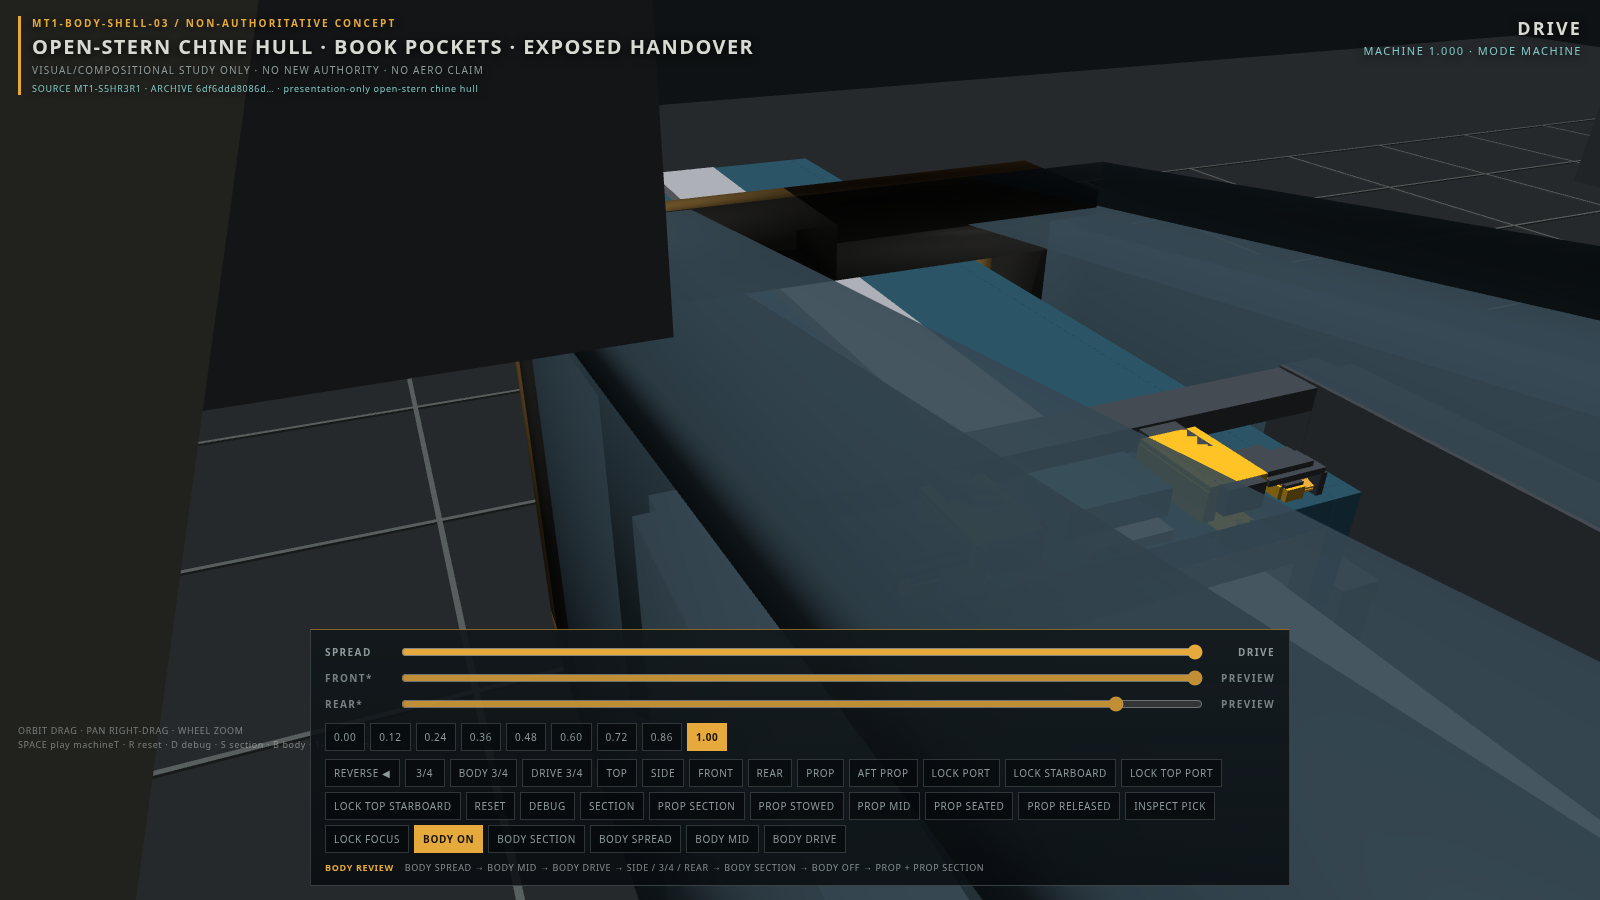
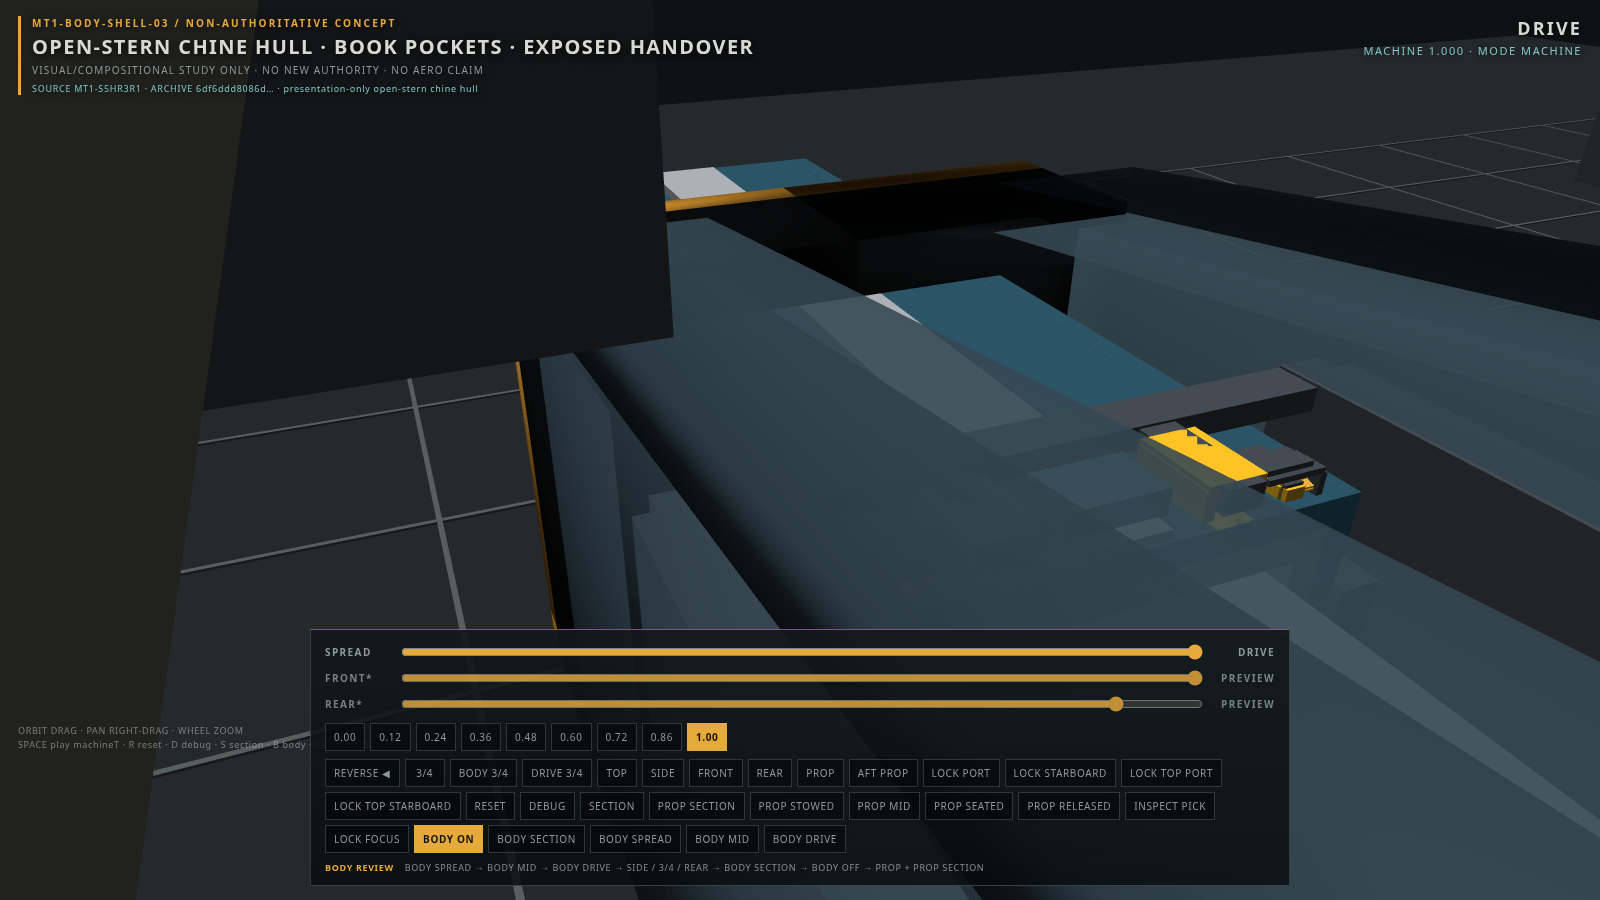
MT1-SO1: director revision evidence; no presentation solution.
Recaptured the matched SO1 set after collar-only contrast and a hair
of forward throat. Fit remains 0 defects. Stock DRIVE 3/4 and rear
still cannot show the portal against the frozen can stroke.

diff --git a/explore/body-shell-03/MT1_SO1_RESULTS.md b/explore/body-shell-03/MT1_SO1_RESULTS.md
@@ -1,6 +1,6 @@
 # MT1-SO1 — Stern / handover ownership
 
-Status: **PRESENTATION STUDY · RECOMMEND ACCEPT SO1**  
+Status: **PRESENTATION STUDY · NO PRESENTATION SOLUTION UNDER CURRENT FROZEN GEOMETRY**  
 Date: 2026-09-02  
 Package: `explore/body-shell-03/` (BODY-SHELL-03.1 + FO1 lineage)  
 Source mechanism: **MT1-S5HR3R1** (unchanged)  
@@ -8,7 +8,11 @@ Authority participation: **none**
 
 Does not start BODY-SHELL-04. Does not reopen S5 or FO1. Does not start S6. Does not design an engine cycle. Stop after SO1.
 
+This file records the accepted ownership rule, the first candidate, and the **one director revision** (value contrast, plus a hair of forward throat after contrast-alone stayed quiet). It is not a second concept.
+
 ## Ownership rule
+
+Accepted by director.
 
 The aft chine becomes one open terminal frame: a recessed throat with an accent lintel–side–sill lip. Through that frame the frozen bay and posts stay visible, then the fixed core, then the hollow can occupying or leaving the same aperture. The frame owns the opening; it does not own the can.
 
@@ -29,7 +33,7 @@ Stations that matter:
 | Capture / lock review | cameras target `z ≈ -4.57`, just forward of the posts |
 | Can stowed | center `z = -3.25`, length 2.55 m, section 1.00 × 0.82 m |
 | Can seated | center `z = -5.80`; occupies `z ≈ -7.08 … -4.53` |
-| Presentation collar (before) | `COLLAR_Z = -5.98`; Z depth **150 mm**; whole volume accent |
+| Presentation collar (before SO1) | `COLLAR_Z = -5.98`; Z depth **150 mm**; whole volume accent |
 
 ### A. What currently makes the stern feel owned by Quarto
 
@@ -45,8 +49,6 @@ The weakness is **frame continuity and throat depth**, not missing mass and not 
 4. **Chine, deck, and collar abutted at one plane** (`COLLAR_Z`) instead of the last chine facet becoming the frame. The hull stopped; a hoop started; the can continued ~1.1 m aft of that hoop.
 5. **Sectional hierarchy was timid** (lintel 100 mm, sill 80 mm). Thickening toward the can would be a sleeve. That remains rejected.
 
-This is not a camera-only failure. The stock REAR / PROP cameras already told the same story. `so1Throat` is a review lens, not a substitute for a frame.
-
 ### C. What must remain optically exposed
 
 Fixed core; hollow translating can; can leaving the bay; can reaching the handover / capture region; registers, tongues, rails, locks, shoes; aft posts and bay walls; open stern in SPREAD, STOWED, and DRIVE. PROP SECTION meaning stays: ghost the can and aft shell, keep locks readable.
@@ -55,32 +57,39 @@ Fixed core; hollow translating can; can leaving the bay; can reaching the handov
 
 **Frame continuity and throat depth**, with a secondary **value-hierarchy** error (accent used for the whole hoop). Not collar X-section into the can, not chine height, not folio stations, not a missing eighth mass, not a boat-tail.
 
-A no-geometry result was considered. FO1 already gave the collar accent; that was not enough. The hoop was still too short and too uniformly bronze to read as the chine’s terminal frame.
-
 ## Exact bounded changes
 
 Presentation-only, in `explore/body-shell-03/src/scene/bodyShellConcept.ts`. No eighth mass. Same conceptual mass: **open stern collar**. FO1 dock-face X unchanged. Frozen root / can / core / posts / bay walls untouched. Aft face of the collar not moved further into the can stroke.
 
-1. **Forward throat, not an aft boat-tail.** Existing collar Z span 150 mm → 350 mm by deepening **forward** only (`COLLAR_THROAT_Z = 0.26` plus a 90 mm lip). Aft face stays at `COLLAR_Z - 0.05`. The can still exits the frame; the body does not follow the stroke.
-2. **FO1 lip / face recipe, used once at the stern.** The same collar mass splits into a darker recessed throat (`pocket` value: `COLLAR_SIDE` / `LINTEL` / `SILL`) and an accent opening lip (`COLLAR_*_LIP`). Accent is no longer a hoop around the can.
-3. **Chine and dorsal deck terminate at the portal’s forward face** so the last facet becomes the frame instead of running through a timid ring. Ventral hull continues to the sill so the belly still meets the opening.
-4. **Section away from the can only.** Lintel top 1.36 → 1.40 (up into the deck). Sill bottom 0.18 → 0.12 (down toward the belly). Opening toward the can is unchanged: inner X ±0.61 m, opening Y 0.26–1.26 m.
+### First candidate (construction; accepted)
 
-The new `*_LIP` meshes are a segmentation of the existing seventh mass so the opening can render as a faceted frame. They are not a new body idea.
+1. **Forward throat, not an aft boat-tail.** Collar Z span 150 mm → 350 mm by deepening **forward** only (`COLLAR_THROAT_Z = 0.26` plus a 90 mm lip). Aft face stays at `COLLAR_Z - 0.05`.
+2. **FO1 lip / face recipe, used once at the stern.** Same collar mass splits into a recessed throat and an opening lip. Chine and dorsal deck terminate at the portal’s forward face.
+3. **Section away from the can only.** Lintel top 1.36 → 1.40. Sill bottom 0.18 → 0.12. Opening toward the can unchanged: inner X ±0.61 m, opening Y 0.26–1.26 m.
+
+Director critique of that candidate: the thesis was readable in `so1Throat` and somewhat in side / seated. Stock **DRIVE 3/4** and **rear DRIVE** were almost unchanged. SO1 must land in those cameras without depending on a flattering close-up.
+
+### One director revision (value contrast; not a second concept)
+
+1. **Collar-only materials.** FO1 station accent / pocket values were left alone. The stern throat uses a dedicated darker, more opaque recess (`matBodyShell03SternThroat`). The stern lip uses a dedicated brighter opening rim (`matBodyShell03SternLip`) so lip vs throat can contrast at DRIVE distance.
+2. **Contrast-alone was recaptured first.** Stock DRIVE 3/4 and rear still could not hold the portal.
+3. **Hair more forward throat**, allowed only after that: `COLLAR_THROAT_Z` 0.26 → 0.38 (+120 mm, forward only). Aft face, opening X/Y toward the can, and FO1 stations unchanged. Total collar Z is now 470 mm. Forward face remains well aft of the posts (`z ≈ -5.56` vs posts at `-4.80`).
+
+No mass was added. No sleeve, cowling, boat-tail, or can-following.
 
 ## What was deliberately NOT changed
 
 - Frozen MT1-S5HR3R1 geometry, transforms, IDs, certificates, gates.
 - Can stroke, fixed core, aft posts, bay walls, rails, locks, shoes, registers, tongues.
-- FO1 station family, dock-face X, 70° haunch, proud dock, front/lower vs rear/higher folio relationship.
-- BODY OFF mechanism. Before/after BODY OFF PNGs are byte-identical in size and show the same machine.
+- FO1 station family, dock-face X, 70° haunch, proud dock, front/lower vs rear/higher folio relationship, FO1 accent / pocket materials.
+- BODY OFF mechanism. Before/after BODY OFF PNGs remain byte-identical (238245 / 191060).
 - Seven-mass language. No eighth mass, nacelle, boat-tail, intake, nozzle, turbine, or closed stern.
-- Can material / color. The teal can remaining visually unusual is desirable.
+- Can material / color.
 - Folio stations, utility professions, cockpit / ground / aero work, S6, BODY-SHELL-04.
 
 ## Before / after evidence
 
-`explore/body-shell-03/evidence/so1/before/` and `.../after/`. Review camera `so1Throat` is inspection-only (starboard-aft into the collar).
+`explore/body-shell-03/evidence/so1/before/` is the FO1 stern before any SO1 geometry. `.../after/` is this director revision.
 
 | View | Before | After |
 | --- | --- | --- |
@@ -96,7 +105,17 @@ The new `*_LIP` meshes are a segmentation of the existing seventh mass so the op
 | SPREAD 3/4 and rear | `so1-before-spread-*.png` | `so1-after-spread-*.png` |
 | BODY OFF 3/4 and rear | `so1-before-body-off-*.png` | `so1-after-body-off-*.png` |
 
-PROP SECTION meaning is preserved: can and aft shell ghost; locks stay readable. SPREAD uses the same portal; the empty throat is a frame around a stowed mechanism, not a broken hole.
+File-size delta after this revision vs the original before set:
+
+| View | Before bytes | After bytes | Δ |
+| --- | --- | --- | --- |
+| DRIVE 3/4 | 279992 | 279995 | +3 |
+| Rear DRIVE | 208139 | 208359 | +220 |
+| Side DRIVE | 199470 | 200221 | +751 |
+| BODY OFF 3/4 | 238245 | 238245 | 0 |
+| BODY OFF rear | 191060 | 191060 | 0 |
+
+PROP SECTION meaning is preserved. SPREAD uses the same portal.
 
 ## Fit result
 
@@ -113,13 +132,13 @@ PROP SECTION meaning is preserved: can and aft shell ghost; locks stay readable.
 
 `npm --prefix explore/body-shell-03 test` — isolation and presentation-fit passed.  
 `npm --prefix explore/body-shell-03 run build` — TypeScript + Vite production build passed.  
-`capture:so1` before/after and `dump:so1-fit` passed.
+`capture:so1` after the director revision and `dump:so1-fit` passed.
 
 Canonical root `npm test` was not required (no `src/` change).
 
 ## Reject list
 
-Tempting changes that would over-own or hide the mechanism:
+Tempting changes that would over-own or hide the mechanism, and that remain rejected after the director revision:
 
 - Move the collar aft to hug the seated can (follows the stroke; makes a nacelle).
 - Close or cap the stern; surround the can in a fake engine cowling.
@@ -131,31 +150,33 @@ Tempting changes that would over-own or hide the mechanism:
 - Raise the stern until it outweighs the folios.
 - Change can color into a generic sci-fi engine.
 - Revise FO1 stations because SO1 is nearby.
+- Depend on `so1Throat` as the proof camera.
 - Assign a propulsion profession or start S6 / BODY-SHELL-04.
 
-## Remaining weaknesses outside SO1
+## Remaining weaknesses — why the stock DRIVE cameras cannot carry this
 
-- In far DRIVE 3/4 / REAR the can still occupies a lot of the picture aft of the frame. That is the frozen stroke, not a presentation defect. The handover is supposed to stay unusual.
-- `so1Throat` is close; the stock PROP SEATED / AFT PROP cameras remain the mechanical review pair.
-- H1 director disposition is unchanged.
-- No engine cycle, intake, or performance claim is made or implied.
+The accepted construction is a 470 mm open frame whose aft face sits around the seated can’s mid-body. The frozen can still occupies `z ≈ -7.08 … -4.53` and continues ~1.1 m aft of that frame. Stock DRIVE 3/4 (`driveBody`, radius 15.2) and rear DRIVE (`rear`, radius 15) look at the whole machine. In those pictures the portal is a few tens of pixels at the far stern; the can stroke and the long hull are the picture.
+
+Value contrast and +120 mm of forward throat are the legal revision. They make the lip/throat readable in PROP / throat / stowed close views. They do not make stock DRIVE 3/4 or rear DRIVE show the portal as a terminal frame. The DRIVE 3/4 PNG changed by **3 bytes**. Rear changed by 220. Side is better (+751) but still not an unambiguous portal against the seated can.
+
+Side / rear / throat / stowed are therefore **not** all unambiguous. Throat and stowed can show the frame. Stock rear and DRIVE 3/4 cannot, because the frozen stroke dominates those cameras.
+
+Making those two cameras carry the thesis would require a larger visual event at the stern: more mass, a nacelle, or following the can aft. All three are forbidden. Changing the stock cameras to flatter the stern would be photographing the machine better instead of owning the stern. That was also refused.
 
 ## Recommendation
 
-**ACCEPT SO1.**
+**NO PRESENTATION SOLUTION UNDER CURRENT FROZEN GEOMETRY.**
 
-A reviewer can identify the same lip–recess–sill portal at the stern without being told which meshes moved: darker throat, bronze opening lip, chine ending into that frame, can still passing through it. STOWED and SPREAD still read as an intentional open mouth, not a missing piece. BODY OFF is the same mechanism. Fit is a 101-sample pass with FO1 gutters unchanged.
+The ownership rule is correct. The construction is correct. The one director revision (collar-only contrast, then a hair of forward throat) was applied and recaptured. Fit is a 101-sample pass. BODY OFF is identical. FO1 and MT1-S5HR3R1 are untouched.
 
-The can remaining a distinct teal object inside an open frame is the correct story. SO1 fails if that story is hidden; it is not hidden here.
-
-ONE BOUNDED REVISION would be warranted only if a director still reads the far DRIVE views as a jewelry hoop. The next legal move would be a slightly deeper forward throat or a stronger lip/throat value contrast — not reach aft, not a nacelle, not a new mass.
+SO1 still fails the review that matters: stock DRIVE 3/4 and rear DRIVE do not show the portal. That is not a materials miss. It is the frozen can stroke and the whole-machine review cameras. No further presentation revision is recommended.
 
 ## Task report
 
-- **Changed files:** `explore/body-shell-03/src/scene/bodyShellConcept.ts` (collar throat / lip, chine and deck termination); `explore/body-shell-03/src/scene/createScene.ts` (`so1Throat` review camera); `explore/body-shell-03/tests/capture-so1.spec.ts`; `explore/body-shell-03/tests/dump-so1-fit.spec.ts`; `explore/body-shell-03/package.json` (`capture:so1`, `dump:so1-fit`); this report; `explore/body-shell-03/evidence/so1/**`.
-- **Tests:** `npm --prefix explore/body-shell-03 test` (isolation + 101-sample fit) passed; `capture:so1` before/after passed; `dump:so1-fit` passed; `npm --prefix explore/body-shell-03 run build` passed. Canonical root `npm test` not required (no `src/` change).
-- **Evidence:** SO1 before/after set above; consulted `MT1_FO1_RESULTS.md`, `BODY_SHELL_03_COMPLETION.md`, `BODY_SHELL_03_1_POCKET_CORRECTION.md`, `evidence/body-shell-03-fit-report.json`, `docs/CURRENT_STATE.md`, `docs/NOMENCLATURE.md`.
+- **Changed files:** `explore/body-shell-03/src/scene/bodyShellConcept.ts` (first-candidate collar geometry; director-revision collar-only materials and +120 mm forward throat); `explore/body-shell-03/src/scene/createScene.ts` (`so1Throat`); `explore/body-shell-03/tests/capture-so1.spec.ts`; `explore/body-shell-03/tests/dump-so1-fit.spec.ts`; `explore/body-shell-03/package.json`; this report; `explore/body-shell-03/evidence/so1/**`.
+- **Tests:** `npm --prefix explore/body-shell-03 test` (isolation + 101-sample fit) passed; `capture:so1` after the director revision passed; `dump:so1-fit` passed; `npm --prefix explore/body-shell-03 run build` passed. Canonical root `npm test` not required (no `src/` change).
+- **Evidence:** SO1 before/after set above, recaptured after the director revision; consulted `MT1_FO1_RESULTS.md`, `BODY_SHELL_03_COMPLETION.md`, `BODY_SHELL_03_1_POCKET_CORRECTION.md`, `evidence/body-shell-03-fit-report.json`, `docs/CURRENT_STATE.md`, `docs/NOMENCLATURE.md`.
 - **Authority participation:** none.
-- **Remaining unknowns / negatives:** whether a later reviewer still wants more throat depth in far DRIVE cameras (rejected here as following the can or adding mass). The open stern will remain visually unusual. That is intended.
+- **Remaining unknowns / negatives:** stock DRIVE 3/4 and rear cannot show a 0.47 m open frame against a 2.55 m frozen can stroke without adding mass or following the can. That is a negative result, not an invitation to another revision.
 
 Canonical `src/` is untouched. BODY OFF is mechanism truth.
